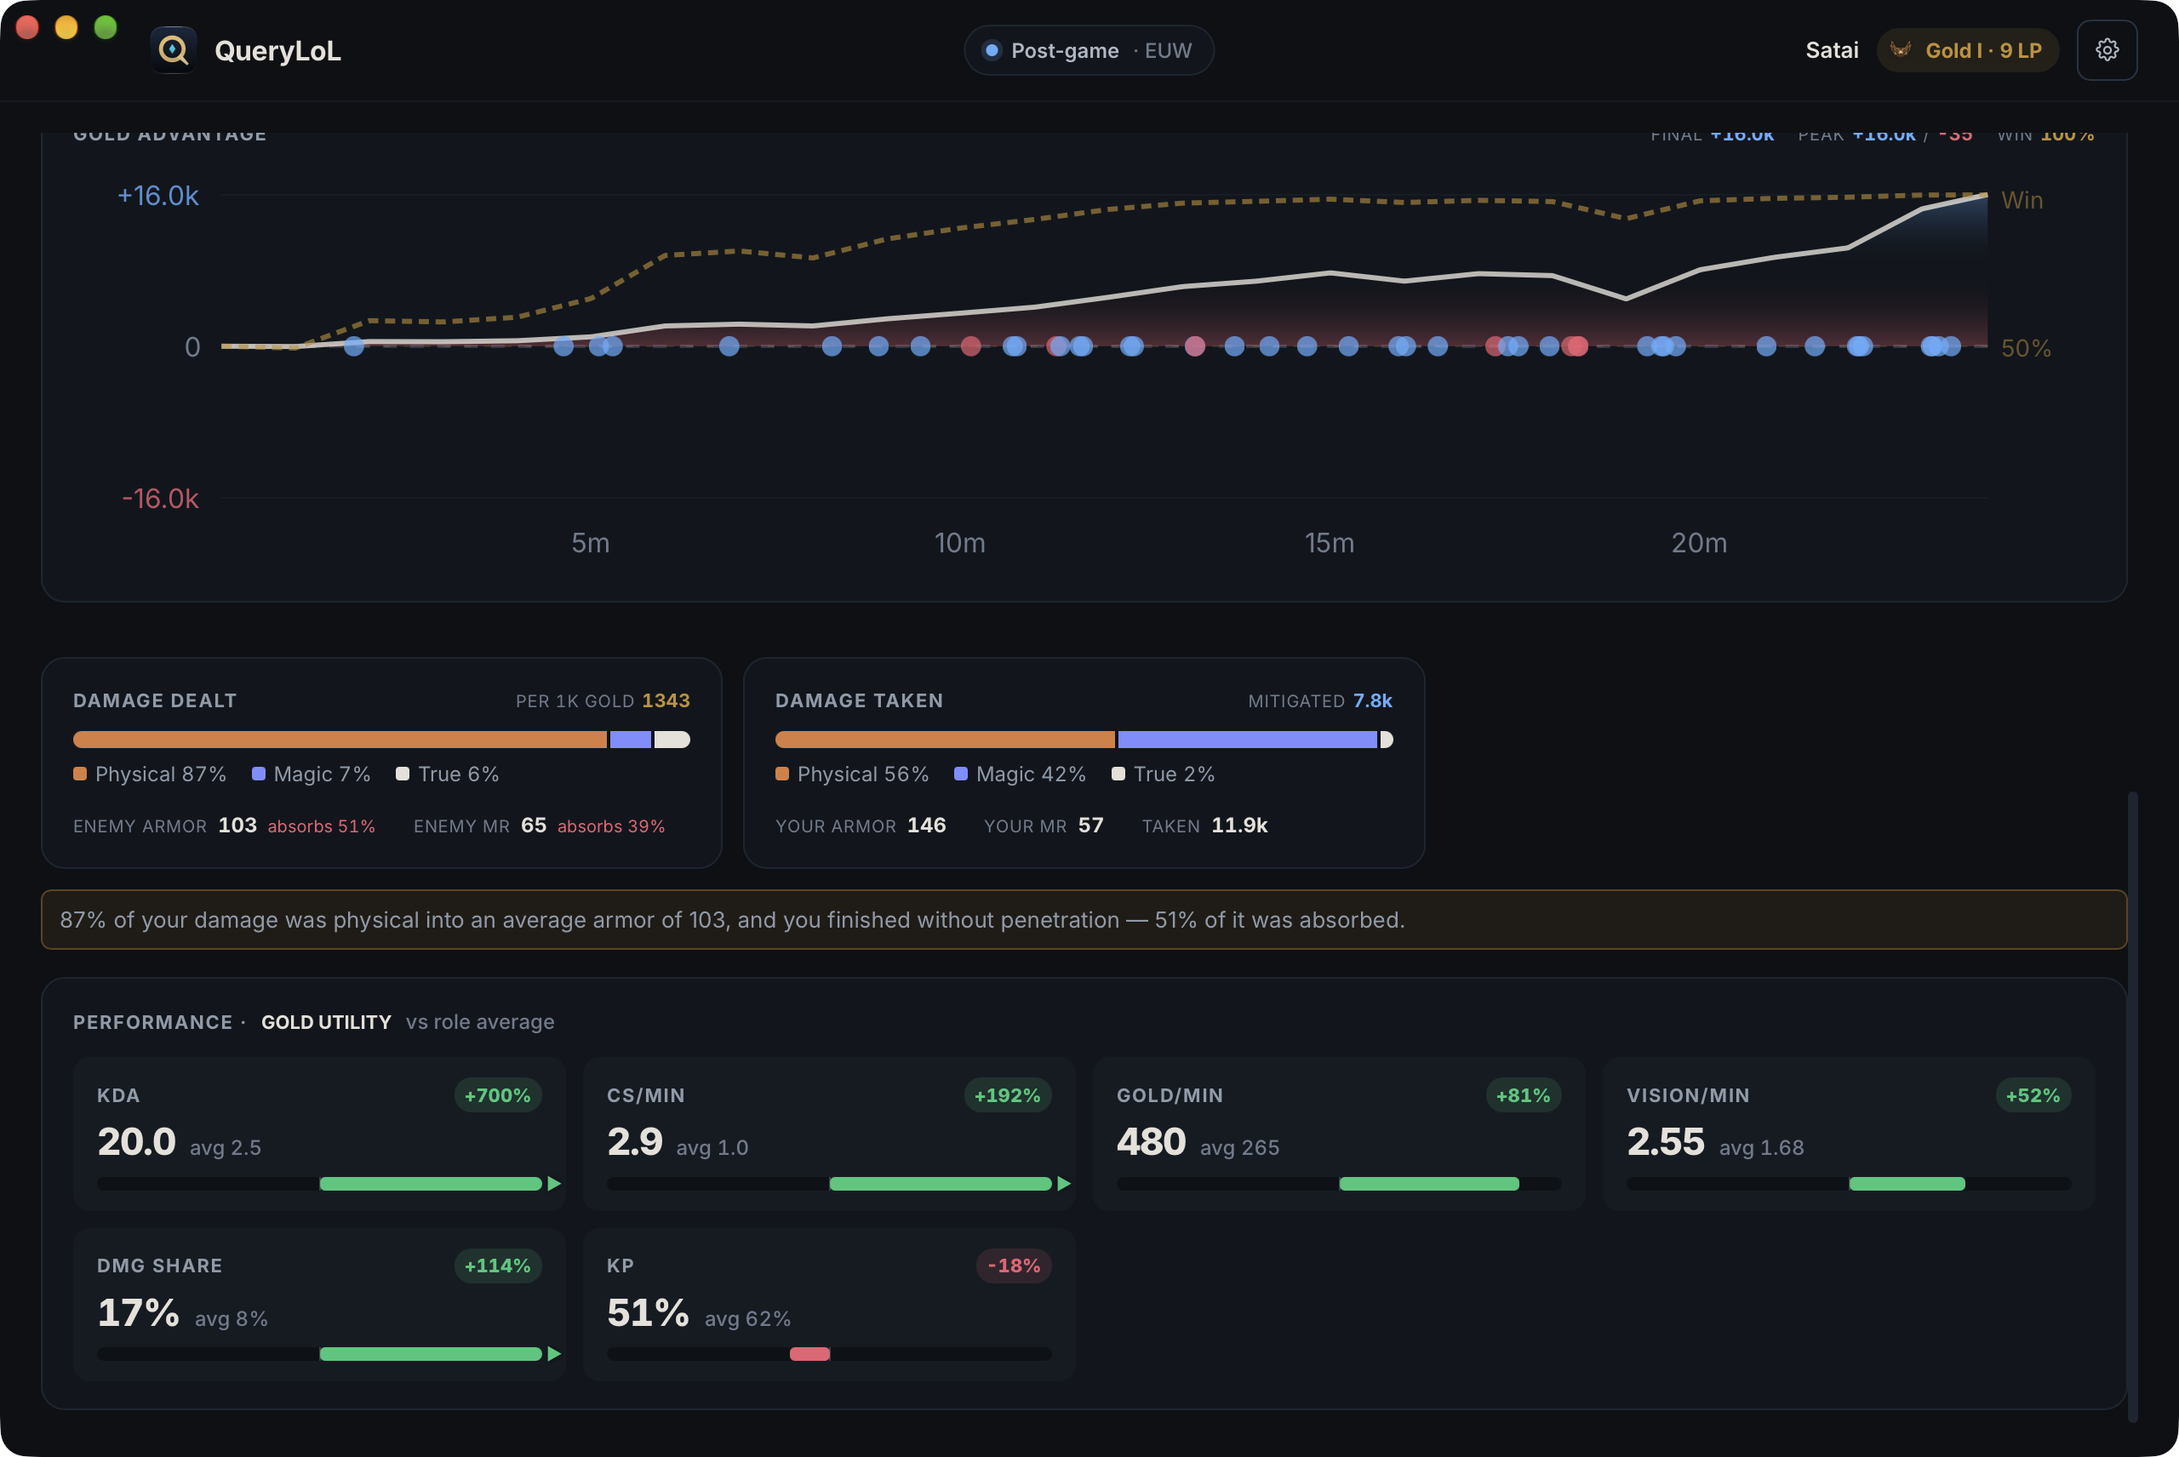
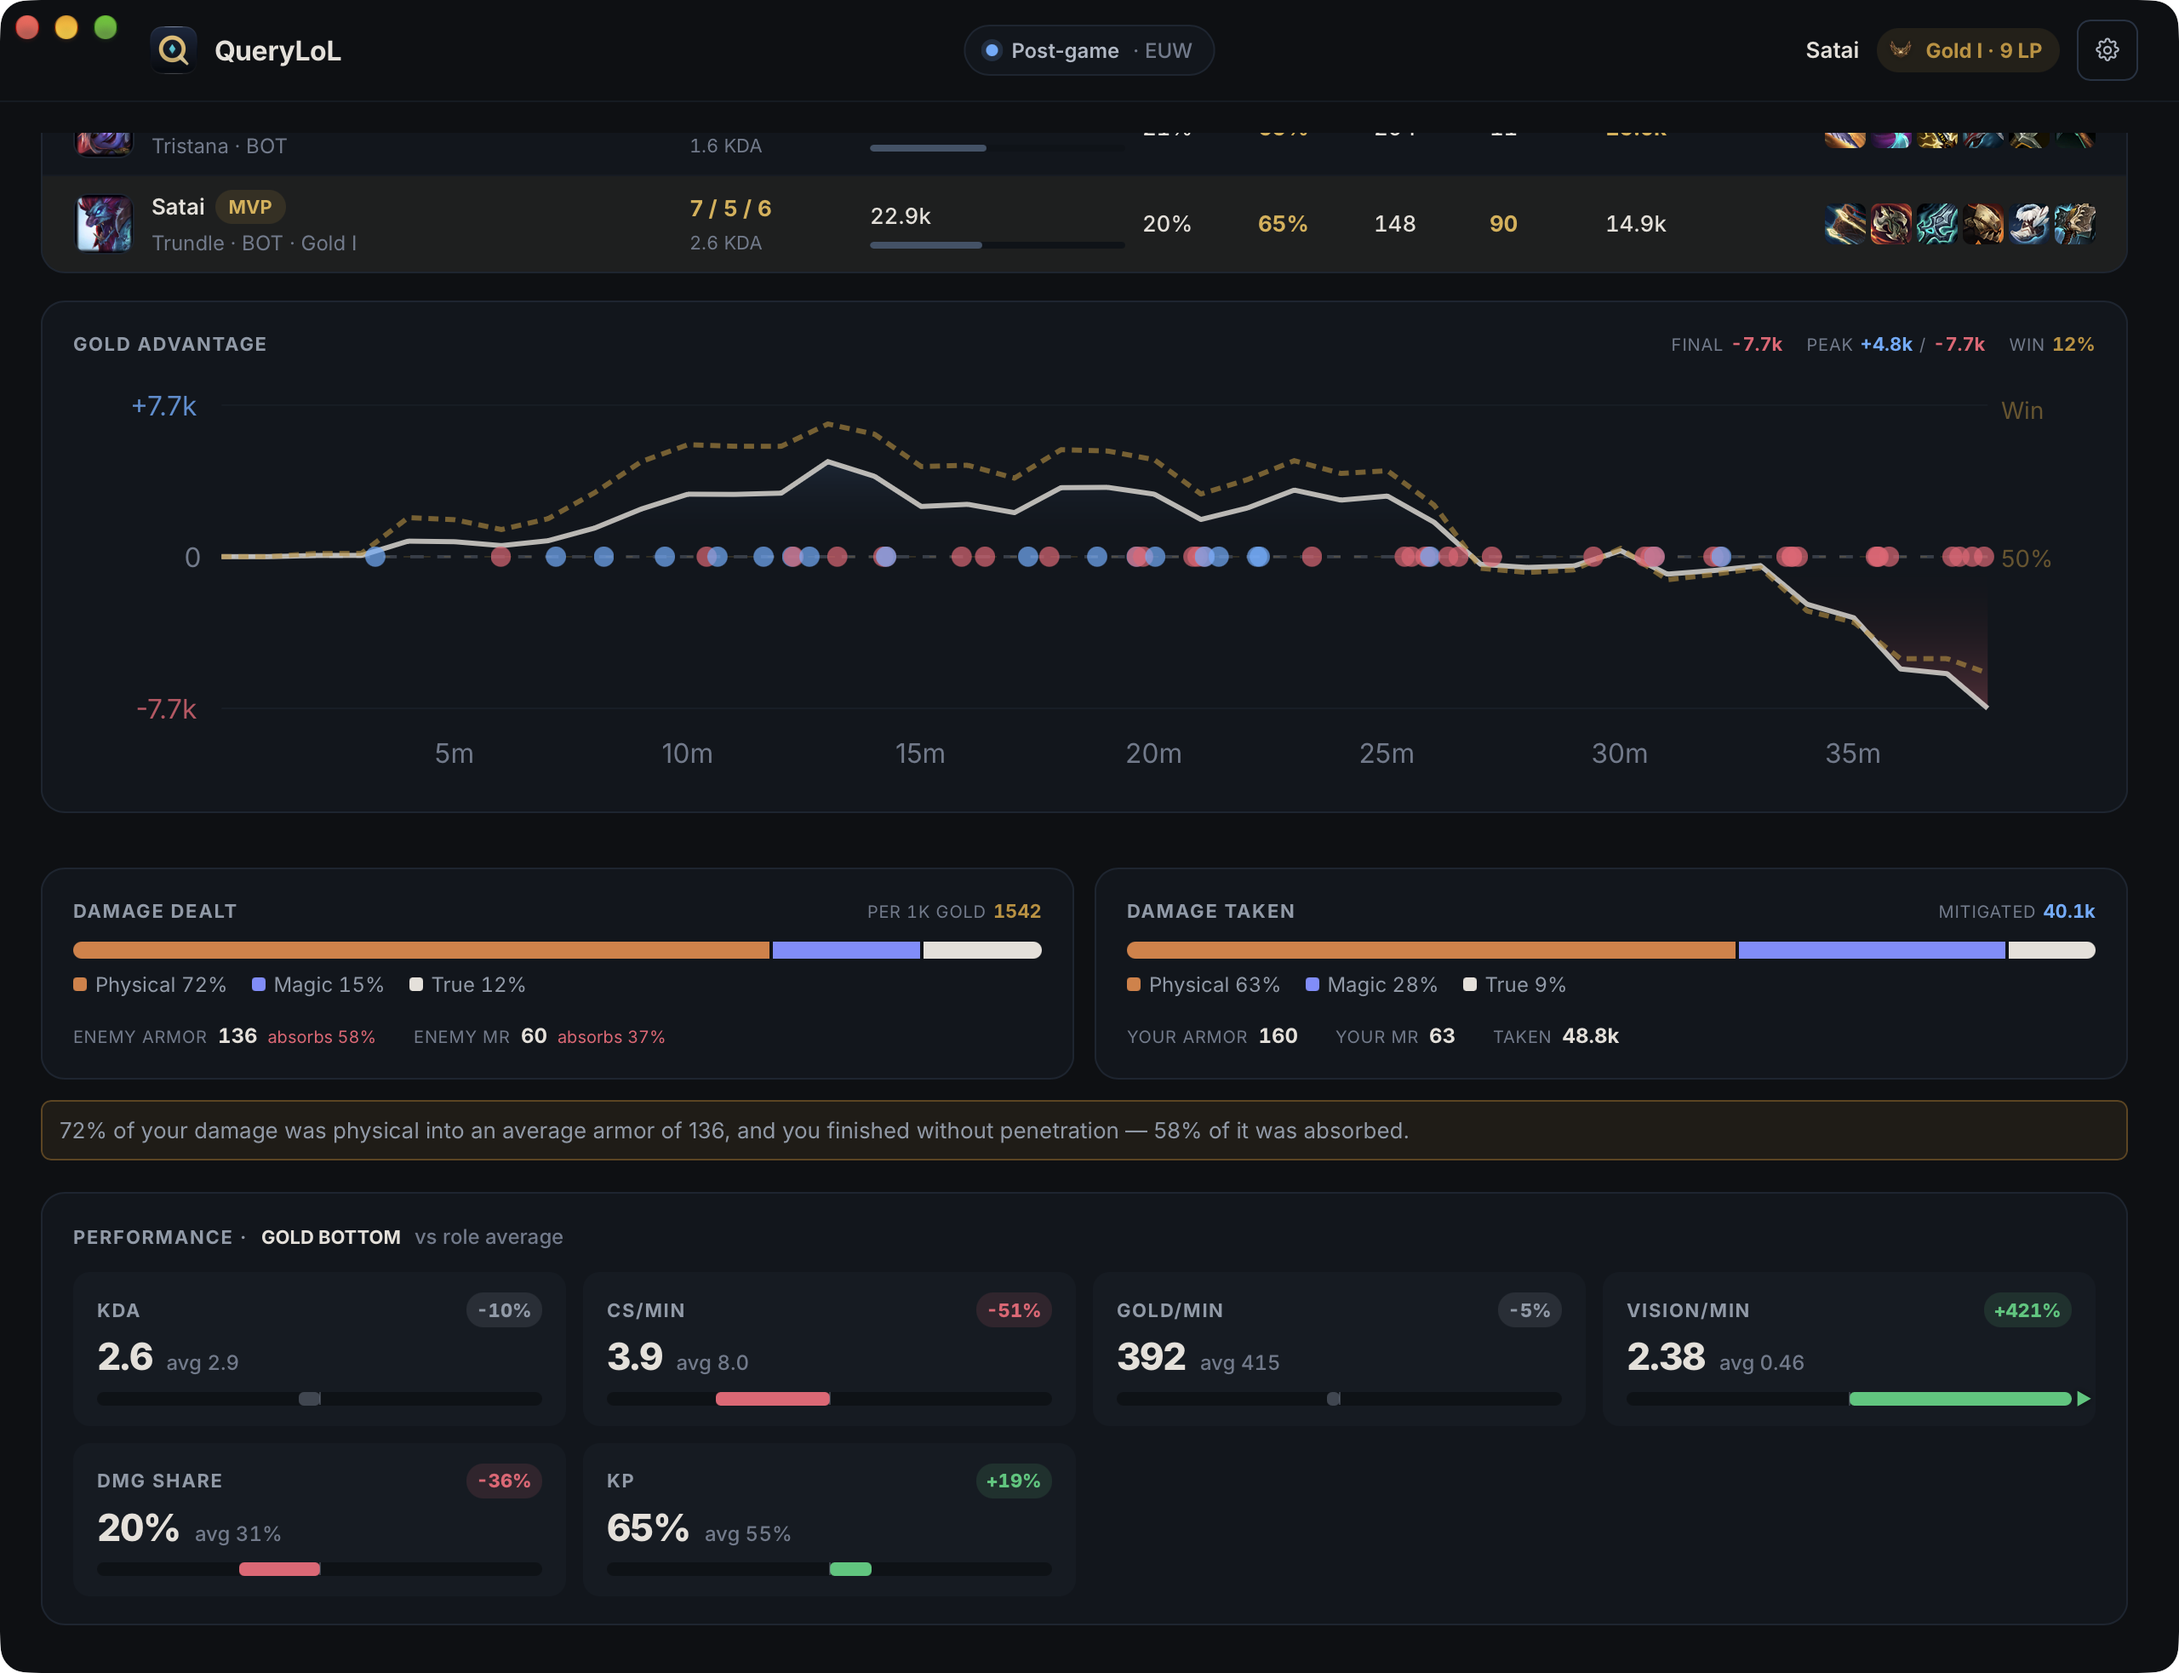
docs: retake the post-game screenshots after the layout fixes
Claude-Session: https://claude.ai/code/session_01VJs5VUzQzPFcsQczXx2vZw

diff --git a/docs/index.html b/docs/index.html
@@ -228,7 +228,7 @@
     <section class="spotlight reverse">
       <div class="spot-media reveal">
         <div class="frame stack">
-          <img src="screenshots/post-game.png" alt="Post-game scoreboard for both teams with the best in each team marked in gold" loading="lazy" />
+          <img src="screenshots/post-game.png" alt="Post-game recording card and scoreboard with the best in each team marked in gold" loading="lazy" />
           <img class="stack-2" src="screenshots/home-dashboard.png" alt="Home dashboard with role-aware improvement panel" loading="lazy" />
         </div>
       </div>

diff --git a/README.md b/README.md
@@ -26,11 +26,11 @@ Real-time recommended build, win probability, gold diff, and a full scoreboard w
 ![Live game scoreboard and recommended build](docs/screenshots/live-game.png)
 
 ### Post-Game Analysis
-Full match scoreboard for both teams — damage, KP, CS, vision and gold per player, with the best in each team marked in gold, plus MVP and multikill badges.
+The recording of the game you just played, ready to watch from your best moment, above the full scoreboard for both teams — damage, KP, CS, vision and gold per player, with the best in each team marked in gold, plus MVP and multikill badges.
 
-![Post-game scoreboard for both teams](docs/screenshots/post-game.png)
+![Post-game recording card and scoreboard for both teams](docs/screenshots/post-game.png)
 
-Below it: the gold-advantage curve with the win probability and every kill and death, what your damage ran into (here 87% physical into 103 average armor, half of it absorbed), and a role-adjusted performance breakdown (vs Gold UTILITY) across KDA, CS/min, gold/min, vision/min, damage share and kill participation.
+Below it: the gold-advantage curve with the win probability and every kill and death, what your damage ran into (here 72% physical into 136 average armor, 58% of it absorbed), and a role-adjusted performance breakdown (vs Gold BOTTOM) across KDA, CS/min, gold/min, vision/min, damage share and kill participation.
 
 ![Gold advantage, damage profile and role-adjusted performance](docs/screenshots/post-game-analysis.png)
 
